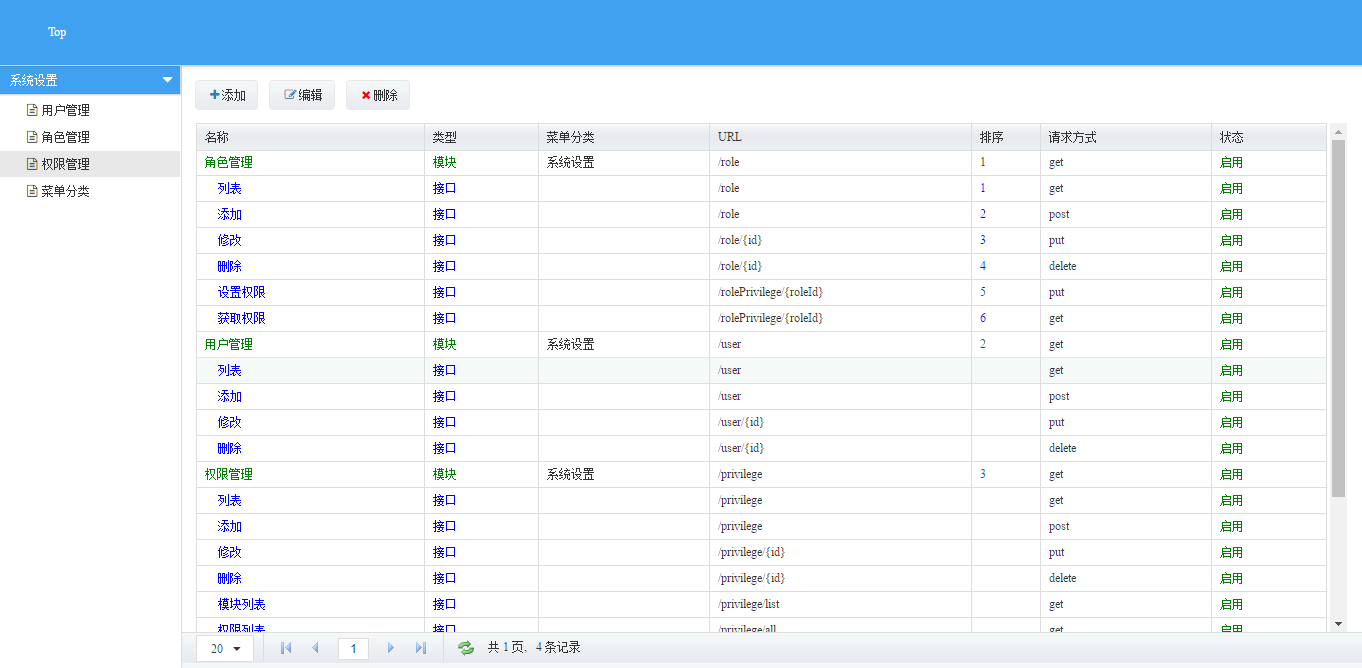
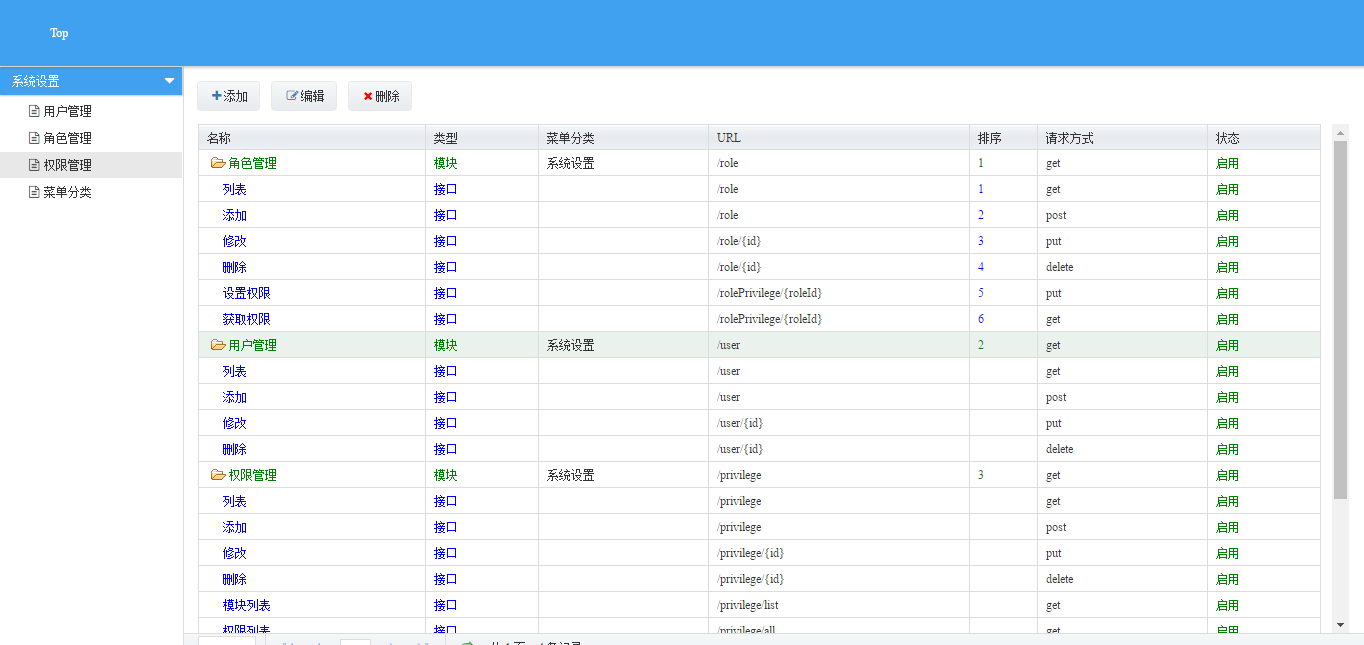
修复gridtree样式

diff --git a/src/common/components/GridTree.js b/src/common/components/GridTree.js
@@ -110,30 +110,38 @@ class GridTree extends Component {
         }
         return columnsDom;
     };
-    refactorData = (columns, data, key) => {
+    refactorData = (columns, data, key, isChild) => {
         key = key ? key * 13 : 100;
         let dom = [];
         for(let i=0; i<data.length; i++){
-            let item_i = data[i], index_i = i;
-            key = key + (index_i + 1) * 13;
+            let item_i = data[i];
+            key = key + (i + 1) * 13;
             let td = '';
+            let hasChildren = !!item_i['children'];
             td = columns.map( (item_j, index_j) => {
                 let field = item_j["field"];
                 let value = item_i[field];
                 let width = item_j.width ? ( (item_j.width + "").match(/%/g) ? item_j.width : item_j.width + 'px' ) : "auto";
                 let className = item_j.class ? item_j.class : '';
+                let icon = "";
+                if(item_j["icon"] && hasChildren){ // 当前列需要设置图标样式， 且有children属性
+                    icon = <i className="tree-icon"> </i>
+                }
+                if(item_j["icon"] && isChild){ // 当前列需要设置图标样式， 且当前行是children
+                    className += " is-child "
+                }
                 if(typeof item_j.template === 'function'){
                     return (
-                        <li className={ className } style={{ width: width }} key={ index_j }>{ item_j.template(item_i) }</li>
+                        <li className={ className } style={{ width: width }} key={ index_j }>{ icon }{ item_j.template(item_i) }</li>
                     )
                 }
                 return (
-                    <li className={ className } style={{ width: width }} key={ index_j }>{ value }</li>
+                    <li className={ className } style={{ width: width }} key={ index_j }>{ icon }{ value }</li>
                 )
             });
             dom.push(<ul onClick={ this.select.bind(this, item_i) } key={ key }>{ td }</ul>);
             if(item_i['children']){
-                let children = this.refactorData(columns, item_i['children'], key);
+                let children = this.refactorData(columns, item_i['children'], key, true);
                 dom = dom.concat(children);
             }
         }

diff --git a/src/privilege/containers/Index.js b/src/privilege/containers/Index.js
@@ -44,11 +44,11 @@ class Index extends Base{
             ],
             columns: [
                 { field: "id", title: 'id', width: 200, class: 'hide' },
-                { field: "name", title: '名称', width: '20%', template: (row) => {
+                { field: "name", icon: true, title: '名称', width: '20%', template: (row) => {
                     if(row.type === 1){
                         return <span style={{ color: 'green' }}>{ row.name }</span>;
                     }else{
-                        return <span style={{ color: 'blue', padding: '0 0 0 13px' }}>{ row.name }</span>;
+                        return <span style={{ color: 'blue' }}>{ row.name }</span>;
                     }
                 } },
                 { field: "type", title: '类型', width: '10%', template: (row) => {

diff --git a/src/common/components/Grid.less b/src/common/components/Grid.less
@@ -13,11 +13,19 @@
         display:inline-block;text-indent: 8px;border:1px solid @borderColor;text-align:left;border-right:none;
         overflow:hidden; text-overflow:ellipsis;border-top:none;height:26px;line-height:26px;
         transition: background 0.2s ease-in-out;
+        box-sizing: border-box;
+        &.is-child{
+          padding:0 0 0 16px;
+        }
         &:nth-last-child(1){
           border-right:1px solid @borderColor;
         }
         &.hide{
           display:none;
+        }
+        .tree-icon{
+          display:inline-block;width:16px;height:16px;background:url(../../assets/images/tree/folder.png)no-repeat;
+          position:relative;top:4px;margin:0 3px;
         }
       }
     }

diff --git a/src/common/common.js b/src/common/common.js
@@ -6,8 +6,8 @@ import React, { Component } from 'react';
 /**
  * http
  */
-const srvUrl = ""; // http://localhost:3001
-const localUrl = "http://115.28.76.154"; //   http://127.0.0.1:3000
+const srvUrl = "http://localhost:3001"; //
+const localUrl = "http://127.0.0.1:3000"; //     http://115.28.76.154
 /**
  * 从cookie中获取
  * @param key
